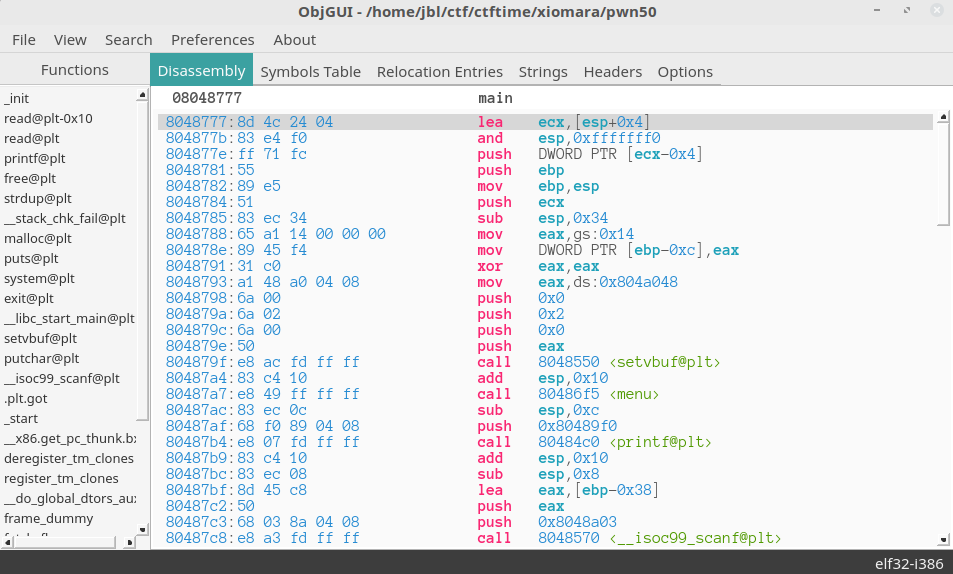
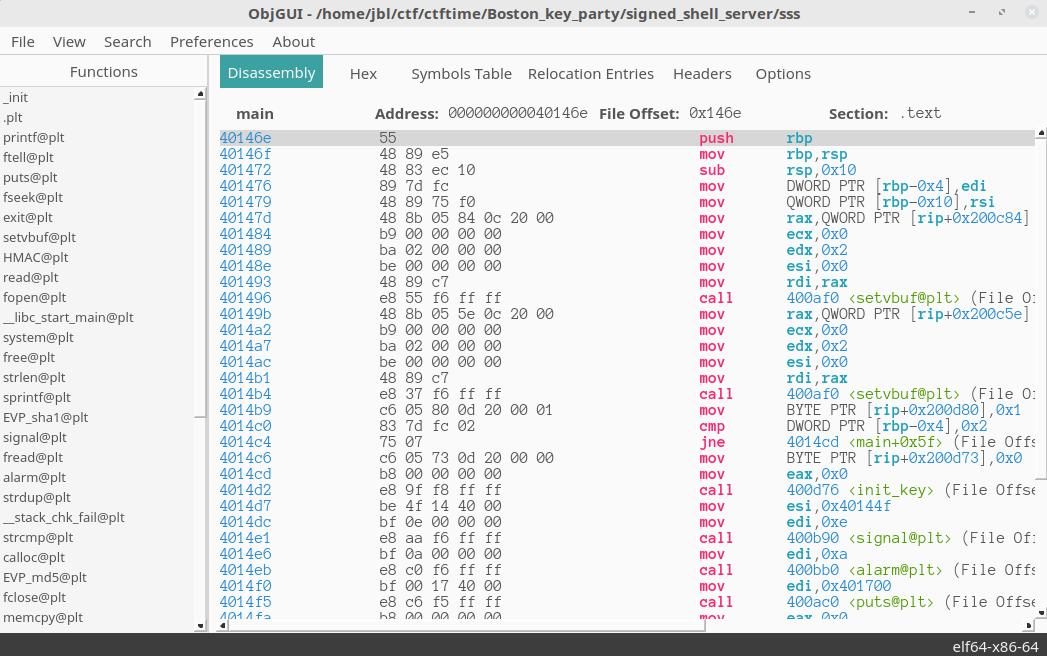
Updated readme and screenshot

Changed region(s): [[0.0, 0.0592, 1.0, 1.0], [0.2434, 0.0, 0.7608, 0.0296]]

diff --git a/README.md b/README.md
@@ -1,12 +1,14 @@
 # ObjGui
-ObjGui is a GUI frontend for objdump made for readability and easy analysis.
+ObjGui is a GUI frontend for objdump made for readability and easy analysis. ObjGui uses objdump to disassemble executables, then provides an easy way to navigate through the disassembly. ObjGui is a handy tool for debugging and reverse engineering.
 
 ## Screenshot
 ![ObjGui](https://github.com/jubal-R/ObjGui/blob/master/screenshots/objGui.png)
 
 ## Features
 - Sidebar navigation to jump between functions
-- Output seperated into tabs
+- Support for custom objdump binaries
+- Support for many objdump flags(syntax, demangle, etc.)
+- Output separated into tabs
 - Highlighting for readability
 
 ## Dependencies
@@ -19,11 +21,17 @@ qt5-default qt5-qmake objdump
 `qmake -qt=qt5 ../ObjGui/src/ObjGui.pro`  
 `make`
 
+## Supported File Formats
+ELF, PE, Macho, etc.  
+ObjGui will disassemble any file format supported by the objdump executable you point it at. If you need to disassemble a binary for any file formats not supported by your default objdump install, then you can compile your own objdump executable configured for your needs.  
+objdump is part of GNU binutils and can be found here <https://ftp.gnu.org/gnu/binutils/>
+
 ## To Be Added
 - Follow jump/call instructions
-- Edit and patch binaries
-- User preferences
+- Export disassembly
+- Additional user preferences
 - Searching
 
 ## License
-ObjGui is licensed under the GNU General Public License version 3.0.
+ObjGui is licensed under the GNU General Public License version 3.0.  
+<https://www.gnu.org/licenses/gpl-3.0.en.html>
